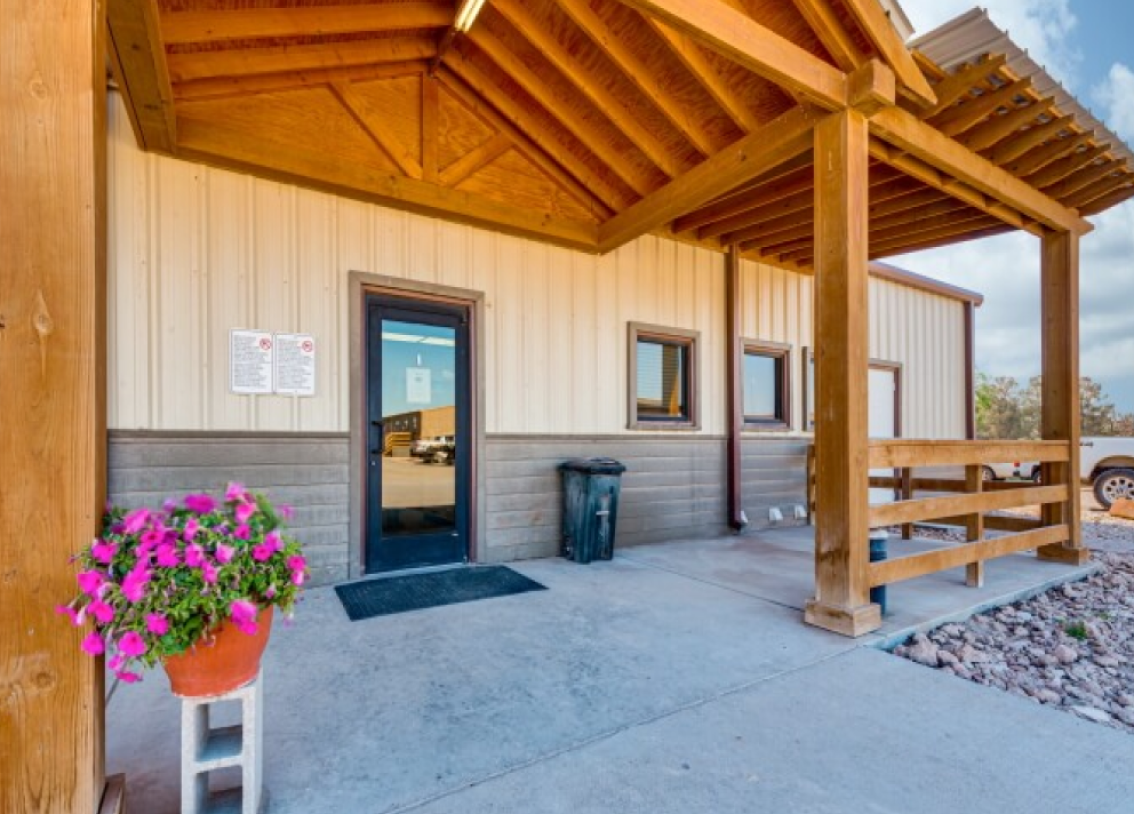
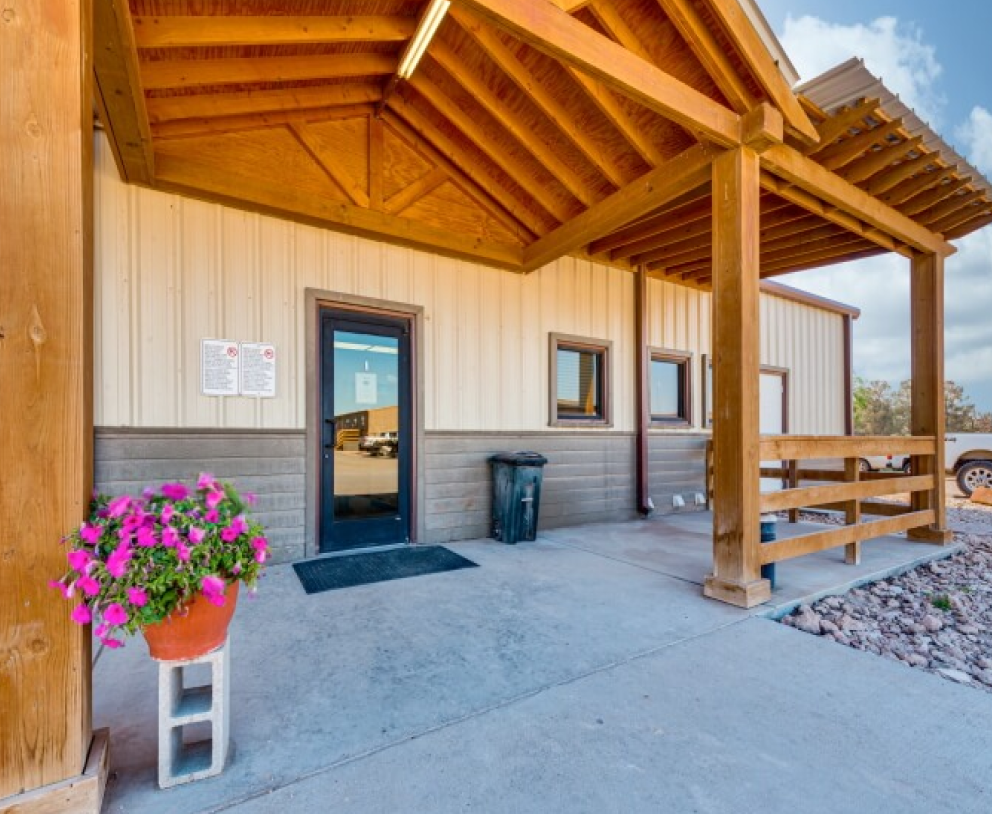
adjusted images to center in mobile version

diff --git a/src/components/CaseStudiesInner/CsKiewit/CsKiewitMain.css b/src/components/CaseStudiesInner/CsKiewit/CsKiewitMain.css
@@ -1,17 +1,22 @@
 
-.cs-back-image{
+.kiewit.cs-back-image{
     width: 100%;
 }
 
+@media only screen and (max-width: 1024px) {
+    .kiewit.cs-back-image div{
+      background-position: center;
+    }
+  }
 
 @media only screen and (min-width: 1024px) {
-    .cs-back-image{
+    .kiewit.cs-back-image{
         width: calc(100% - 600px);
     }
-    .cs-back-image div{
+    .kiewit.cs-back-image div{
         background-position: center right -100px;
     }
-     /* .cs-back-image img{
+     /* .kiewit.cs-back-image img{
         position: relative;
         background-position: 4%;
      } */
@@ -19,13 +24,13 @@
   }
 
   @media only screen and (min-width: 1281px) {
-    .cs-back-image{
+    .kiewit.cs-back-image{
         width: calc(100% - 800px);
     }
     
   }
   /* @media only screen and (min-width: 1840px) {
-    .cs-back-image img{
+    .kiewit.cs-back-image img{
         height: 105%;
         position: relative;
         bottom: 4%;
@@ -33,7 +38,7 @@
 }*/
 
   @media only screen and (min-width: 1630px) {
-    .cs-back-image div{
+    .kiewit.cs-back-image div{
        /* background-size: cover; */
        background-position: center right -10px;     
        
@@ -41,7 +46,7 @@
 }
 
 @media only screen and (min-width: 1830px) {
-    .cs-back-image div{
+    .kiewit.cs-back-image div{
         
         background-size: cover;
         background-position: center right -100px;
@@ -50,7 +55,7 @@
 
 
   @media only screen and (min-width: 1921px) {
-    .cs-back-image{
+    .kiewit.cs-back-image{
         width: 526px;
     }
     

diff --git a/src/components/CaseStudiesInner/CsPermianLodging/PermianHero.jsx b/src/components/CaseStudiesInner/CsPermianLodging/PermianHero.jsx
@@ -6,7 +6,7 @@ const PermianHero = () => {
     <div className="w-full bg-custom-back h-[700px] smalls:h-[700px] md:h-[600px] lg:h-[450px] pt-10">
       <div className="flex flex-col-reverse lg:gap-8 lg:flex-row main-container w-full mx-auto">
         <div className="relative cs-back-image">
-          <div className="lg:absolute scLg:static scLg:w-[526px] bg-cs-hero-img7 bg-cover bg-right min-w-[300px] lg:w-[1000px] h-[300px] md:min-h-[350px] lg:h-[500px] top-[0px] bottom-0 right-0 rounded-2xl bg-no-repeat"></div>
+          <div className="lg:absolute scLg:static scLg:w-[526px] bg-cs-hero-img7 bg-cover lg:bg-contain min-w-[300px] lg:w-[1000px] h-[300px] md:min-h-[350px] lg:h-[500px] top-[0px] bottom-0 right-0 rounded-2xl bg-no-repeat"></div>
         </div>
 
         <div className="flex flex-col max-w-[600px] xl:max-w-[800px] xl:min-w-[700px] items-center self-start py-5">

diff --git a/src/components/CaseStudiesInner/CsKiewit/KiewitHero.jsx b/src/components/CaseStudiesInner/CsKiewit/KiewitHero.jsx
@@ -5,7 +5,7 @@ const KiewitHero = () => {
         <div className="w-full max-h-max">
         <div className="w-full bg-custom-back h-[700px] smalls:h-[700px] md:h-[600px] lg:h-[450px] pt-10">
           <div className="flex flex-col-reverse lg:gap-8 lg:flex-row main-container w-full mx-auto">
-            <div className="relative cs-back-image">
+            <div className="relative kiewit cs-back-image">
               <div className="lg:absolute scLg:static scLg:w-[526px] bg-cs-hero-img11 bg-cover lg:bg-contain min-w-[300px] lg:w-[1000px] h-[300px] md:min-h-[350px] lg:h-[500px] top-[0px] bottom-0 right-0 rounded-2xl bg-no-repeat"></div>
             </div>
     

diff --git a/src/components/CaseStudiesInner/CsRightChoice/CsRightChoiceMain.css b/src/components/CaseStudiesInner/CsRightChoice/CsRightChoiceMain.css
@@ -1,8 +1,14 @@
 
 .right-choice.cs-back-image{
     width: 100%;
+
 }
 
+@media only screen and (max-width: 1024px) {
+  .right-choice.cs-back-image div{
+    background-position: center;
+  }
+}
 
 @media only screen and (min-width: 1024px) {
     .right-choice.cs-back-image{

diff --git a/src/components/CaseStudiesInner/CsPetroplex/CsPetroplexMain.css b/src/components/CaseStudiesInner/CsPetroplex/CsPetroplexMain.css
@@ -3,6 +3,11 @@
     width: 100%;
 }
 
+@media only screen and (max-width: 1024px) {
+  .petroplex.cs-back-image div{
+    background-position: center;
+  }
+}
 
 @media only screen and (min-width: 1024px) {
     .petroplex.cs-back-image{

diff --git a/src/components/CaseStudiesInner/CsSodexImplements/CsSodexoImplementsMain.css b/src/components/CaseStudiesInner/CsSodexImplements/CsSodexoImplementsMain.css
@@ -7,6 +7,7 @@
 {
   .sodexo-implements.cs-back-image div{
     background-size: cover;
+    background-position: center;
   }
 }
 
